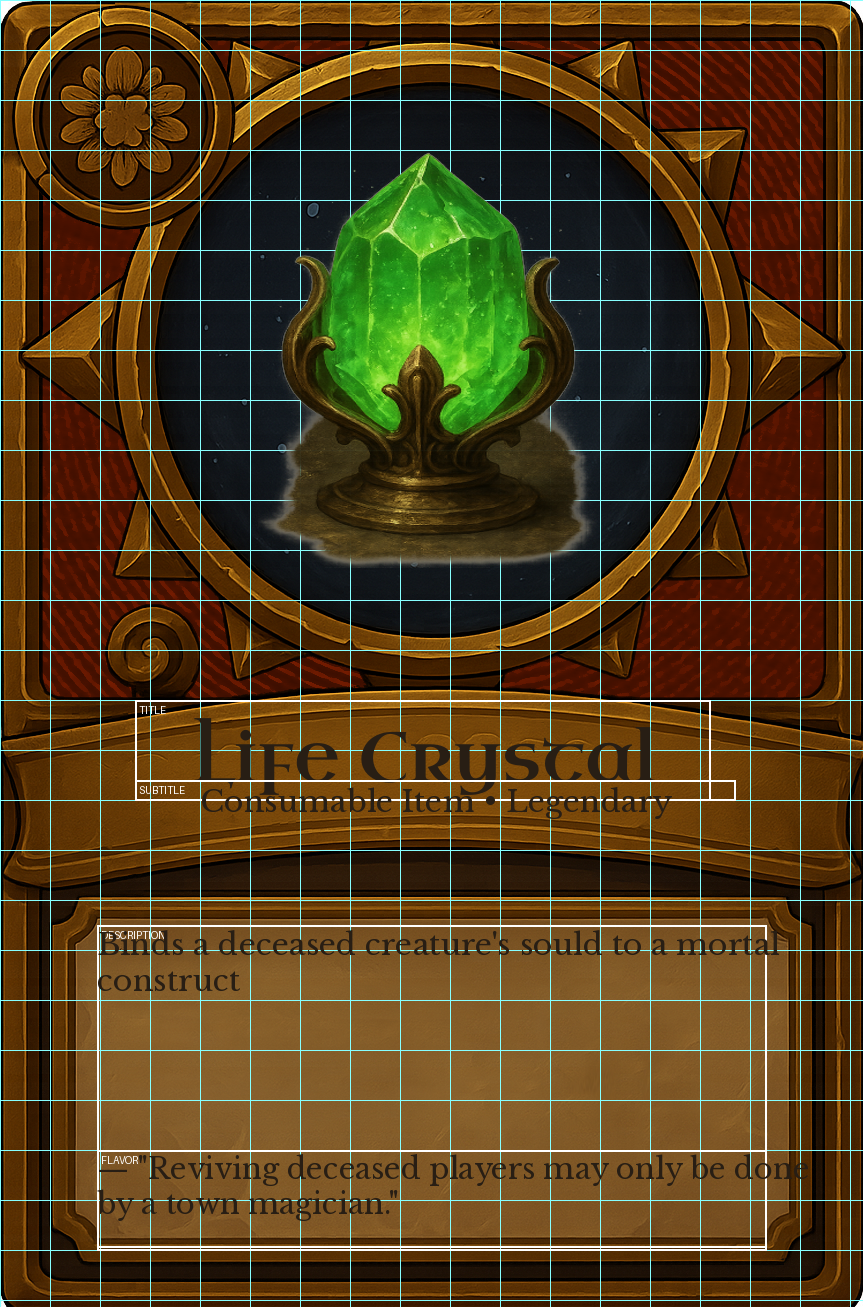
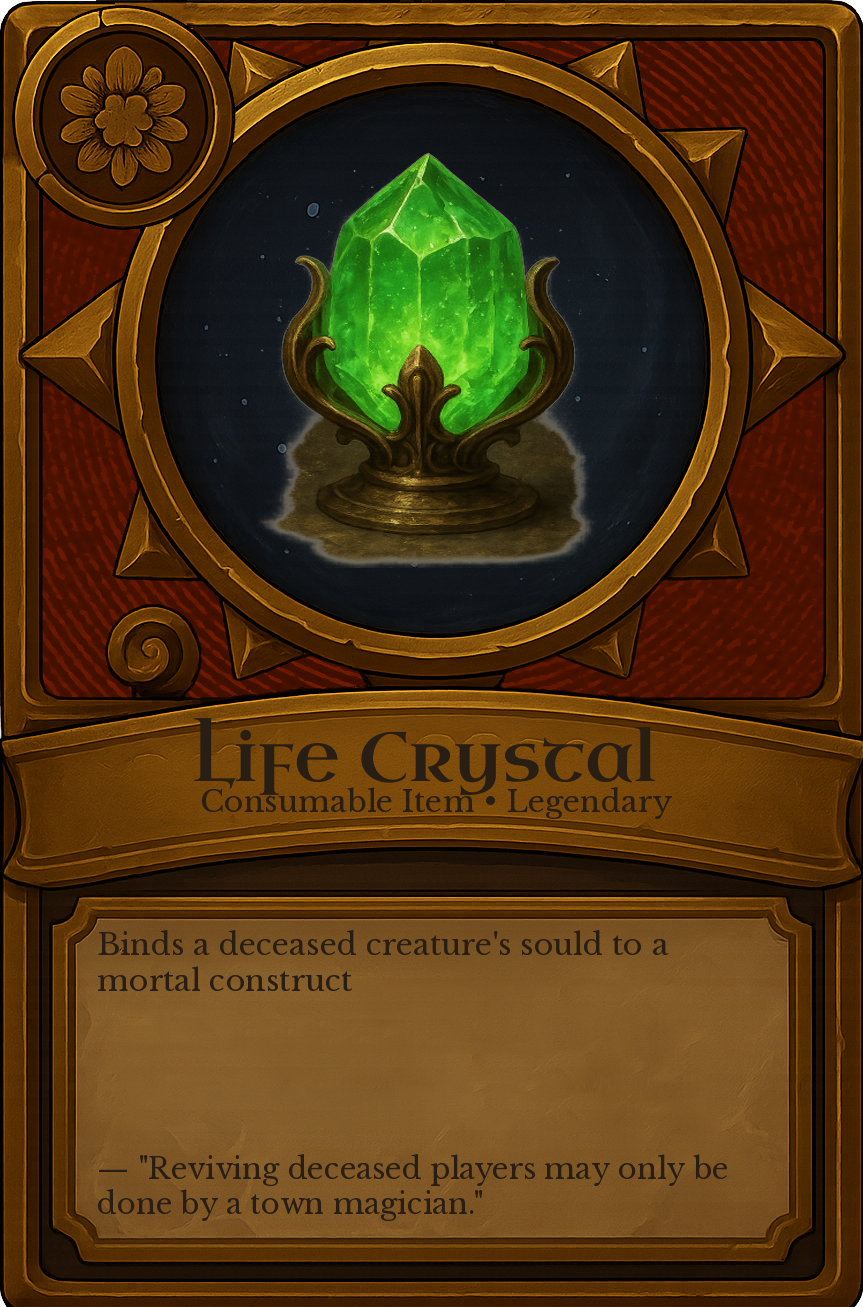
markup can interpret nested expressions

diff --git a/source/markup.py b/source/markup.py
@@ -43,29 +43,147 @@ ICON_MAP = {
     "eye": "icons/eye.png"
 }
 
+ #======================
+# Fix to keep token effect when wrapping
+# ======================
+def wrap_tokens(tokens, draw, fonts, max_width, icon_size, space_width):
+    lines = []
+    current_line = []
+    current_width = 0
+
+    for token in tokens:
+        if token[0] == "icon":
+            token_width = icon_size + 4
+            token_text = None
+        else:
+            content, style = token[1], token[2]
+            font = fonts["normal"]
+            if style["bold"] and style["italic"]:
+                font = fonts.get("bolditalic", fonts["bold"])
+            elif style["bold"]:
+                font = fonts["bold"]
+            elif style["italic"]:
+                font = fonts["italic"]
+
+            token_width = draw.textlength(content, font=font)
+            token_text = content
+
+        if current_width + token_width > max_width and current_line:
+            lines.append(current_line)
+            current_line = []
+            current_width = 0
+
+        current_line.append(token)
+        current_width += token_width
+
+    if current_line:
+        lines.append(current_line)
+
+    return lines
+
+def explode_text_tokens(tokens):
+    # Splits text tokens into word-level tokens while preserving style.
+    exploded = []
+
+    for token in tokens:
+        if token[0] == "icon":
+            exploded.append(token)
+            continue
+
+        content, style = token[1], token[2]
+
+        # split but keep spaces
+        parts = re.split(r"(\s+)", content)
+
+        for part in parts:
+            if part:
+                exploded.append(("text", part, style))
+
+    return exploded
+
+
 # ======================
 # Parse Inline Markup
 # ======================
 def parse_inline(text):
-    parts = INLINE_PATTERN.split(text)
     tokens = []
+    i = 0
+    stack = []
 
-    for part in parts:
-        if not part:
+    def current_style():
+        style = {"bold": False, "italic": False, "color": None}
+        for s in stack:
+            if s == "bold":
+                style["bold"] = True
+            elif s == "italic":
+                style["italic"] = True
+            elif s.startswith("color:"):
+                style["color"] = s.split(":", 1)[1]
+        return style
+
+    buffer = ""
+
+    while i < len(text):
+        # ---- Bold ----
+        if text.startswith("**", i):
+            if buffer:
+                tokens.append(("text", buffer, current_style()))
+                buffer = ""
+            if stack and stack[-1] == "bold":
+                stack.pop()
+            else:
+                stack.append("bold")
+            i += 2
             continue
-        if part.startswith("**"):
-            tokens.append(("bold", part[2:-2]))
-        elif part.startswith("*"):
-            tokens.append(("italic", part[1:-1]))
-        elif part.startswith("{icon:"):
-            icon_name = part[6:-1]  # remove {icon: ... }
-            tokens.append(("icon", icon_name))
-        elif part.startswith("{"):
-            color = part[1:part.index("}")]
-            content = part[part.index("}") + 1:-3]  # remove {/}
-            tokens.append(("color", content, color))
-        else:
-            tokens.append(("normal", part))
+
+        # ---- Italic ----
+        if text.startswith("*", i):
+            if buffer:
+                tokens.append(("text", buffer, current_style()))
+                buffer = ""
+            if stack and stack[-1] == "italic":
+                stack.pop()
+            else:
+                stack.append("italic")
+            i += 1
+            continue
+
+        # ---- Color open ----
+        if text.startswith("{", i) and "}" in text[i:]:
+            end = text.find("}", i)
+            tag = text[i+1:end]
+
+            if tag == "/":
+                if stack and stack[-1].startswith("color:"):
+                    if buffer:
+                        tokens.append(("text", buffer, current_style()))
+                        buffer = ""
+                    stack.pop()
+                i = end + 1
+                continue
+
+            if tag.startswith("icon:"):
+                if buffer:
+                    tokens.append(("text", buffer, current_style()))
+                    buffer = ""
+                tokens.append(("icon", tag.split(":", 1)[1]))
+                i = end + 1
+                continue
+
+            # color start
+            if buffer:
+                tokens.append(("text", buffer, current_style()))
+                buffer = ""
+            stack.append(f"color:{tag}")
+            i = end + 1
+            continue
+
+        # ---- Normal char ----
+        buffer += text[i]
+        i += 1
+
+    if buffer:
+        tokens.append(("text", buffer, current_style()))
 
     return tokens
 
@@ -96,54 +214,50 @@ def render_markup(
             is_bullet = line.startswith("- ")
             line = line[2:] if is_bullet else line
 
-            wrapped_lines = textwrap.wrap(line, width=wrap_width)
+            tokens = explode_text_tokens(parse_inline(line))
 
-            for wrapped in wrapped_lines:
+            wrapped_lines = wrap_tokens(
+                tokens,
+                draw,
+                fonts,
+                max_width - (22 if is_bullet else 0),
+                icon_size,
+                draw.textlength(" ", font=fonts["normal"])
+            )
+
+            for wrapped_tokens in wrapped_lines:
                 cursor_x = x + (22 if is_bullet else 0)
+
                 if is_bullet:
                     draw.text((x, cursor_y), "•", fill=default_color, font=fonts["normal"])
 
-                tokens = parse_inline(wrapped)
-                for token in tokens:
-                    kind = token[0]
-
-                    if kind == "bold":
-                        font = fonts["bold"]
-                        color = default_color
-                        content = token[1]
-                        draw.text((cursor_x, cursor_y), content, fill=color, font=font)
-                        cursor_x += draw.textlength(content, font=font)
-                    elif kind == "italic":
-                        font = fonts["italic"]
-                        color = default_color
-                        content = token[1]
-                        draw.text((cursor_x, cursor_y), content, fill=color, font=font)
-                        cursor_x += draw.textlength(content, font=font)
-                    elif kind == "color":
-                        font = fonts["normal"]
-                        content = token[1]
-                        color = COLOR_MAP.get(token[2], default_color)
-                        draw.text((cursor_x, cursor_y), content, fill=color, font=font)
-                        cursor_x += draw.textlength(content, font=font)
-                    elif kind == "icon":
+                for token in wrapped_tokens:
+                    if token[0] == "icon":
                         if not measure_only:
                             icon_path = ICON_MAP.get(token[1])
                             if icon_path:
                                 icon_img = Image.open(icon_path).convert("RGBA")
                                 icon_img = icon_img.resize((icon_size, icon_size))
+                                image.paste(icon_img, (int(cursor_x), int(cursor_y)), icon_img)
+                        cursor_x += icon_size + 4
+                        continue
 
-                                image.paste(
-                                    icon_img,
-                                    (int(cursor_x), int(cursor_y)),
-                                    icon_img
-                                )
+                    # text token
+                    content, style = token[1], token[2]
 
-                        cursor_x += icon_size + 4 # space after icon
-                    else:  # normal text
-                        font = fonts["normal"]
-                        content = token[1]
-                        draw.text((cursor_x, cursor_y), content, fill=default_color, font=font)
-                        cursor_x += draw.textlength(content, font=font)
+                    font = fonts["normal"]
+                    if style["bold"] and style["italic"]:
+                        font = fonts.get("bolditalic", fonts["bold"])
+                    elif style["bold"]:
+                        font = fonts["bold"]
+                    elif style["italic"]:
+                        font = fonts["italic"]
+
+                    color = COLOR_MAP.get(style["color"], default_color)
+
+                    draw.text((cursor_x, cursor_y), content, fill=color, font=font)
+                    cursor_x += draw.textlength(content, font=font)
+
 
                 cursor_y += fonts["normal"].size + line_spacing
 

diff --git a/source/main.py b/source/main.py
@@ -7,7 +7,7 @@ import copy
 # ======================
 # Configuration
 # ======================
-DEBUG_LAYOUT = True
+DEBUG_LAYOUT = False
 
 GRID_WIDTH = 50
 GRID_HEIGHT = 50
